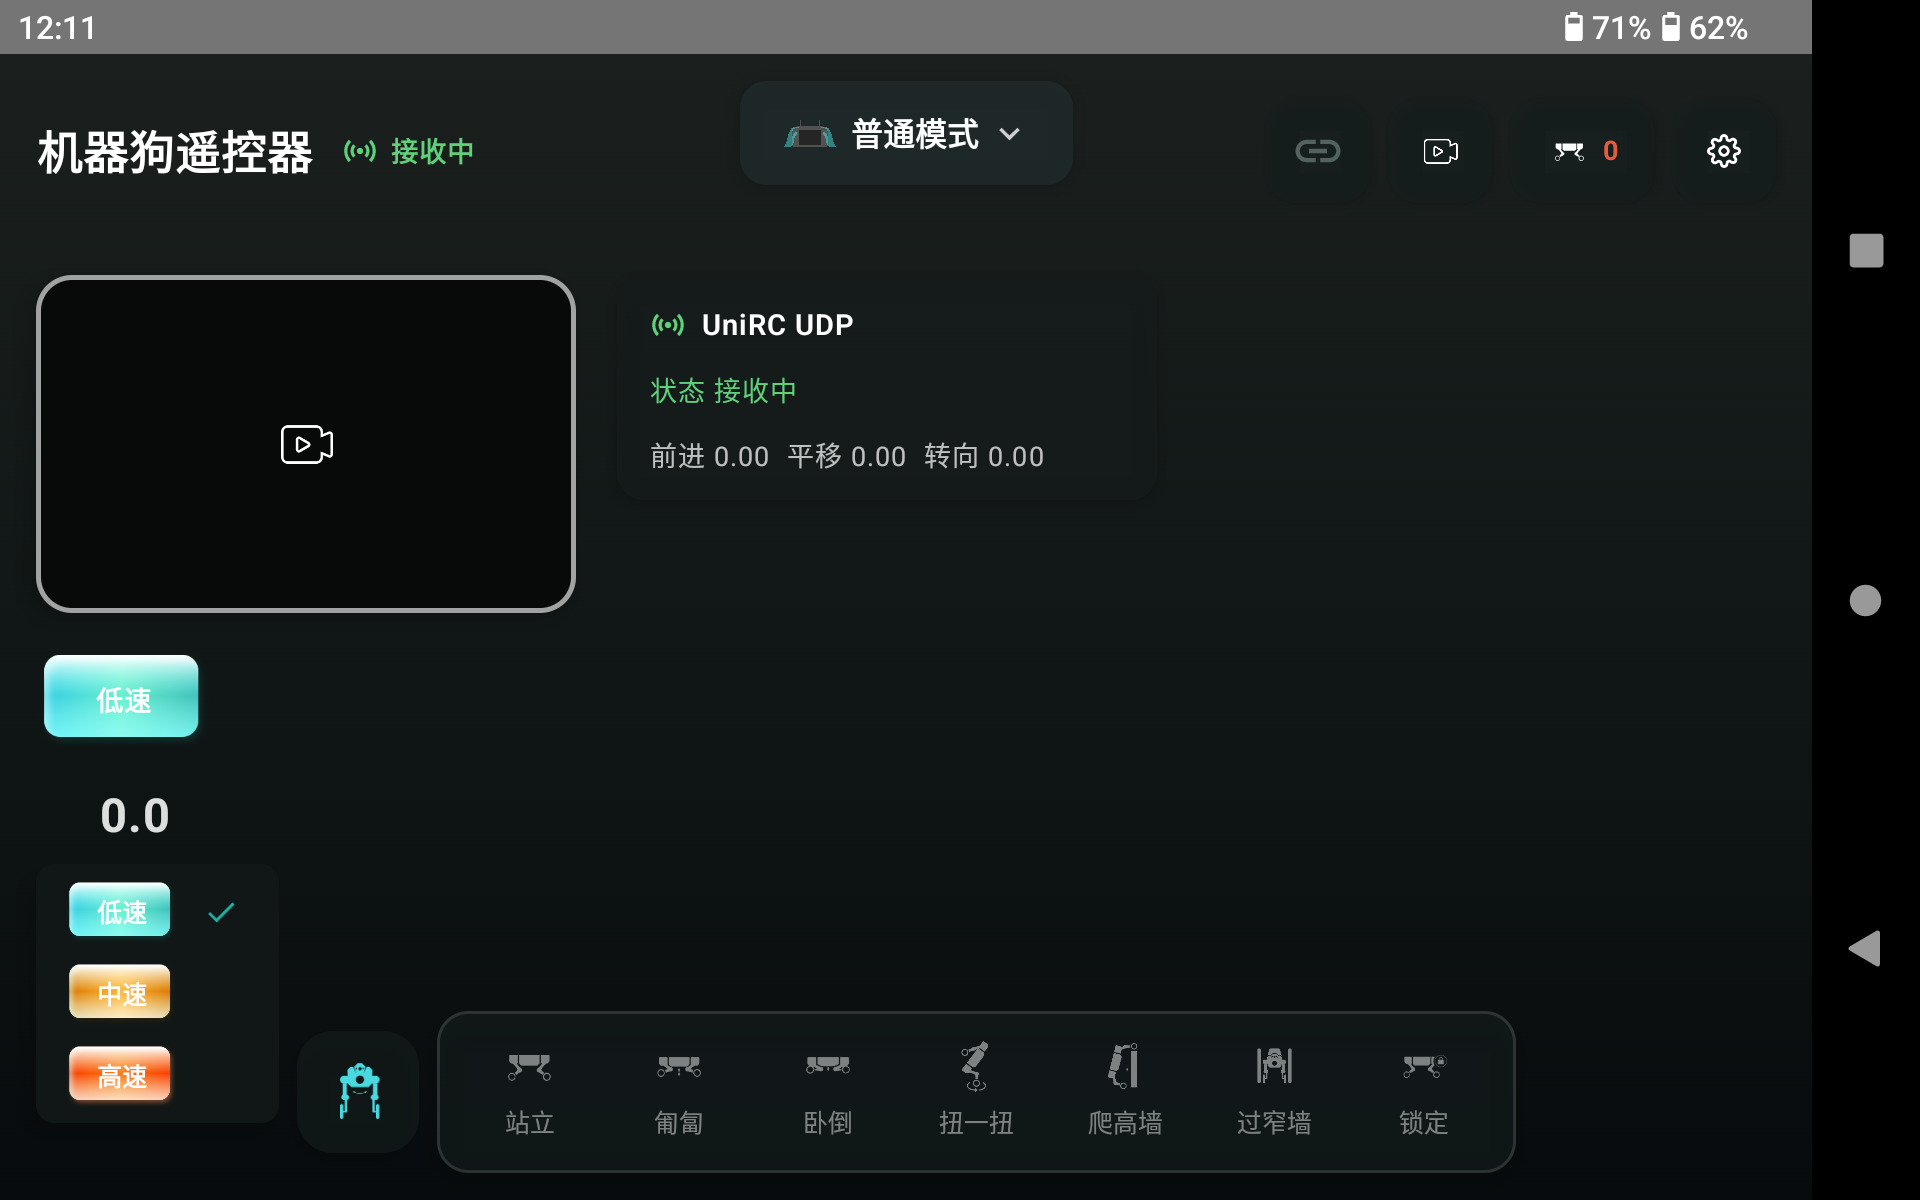
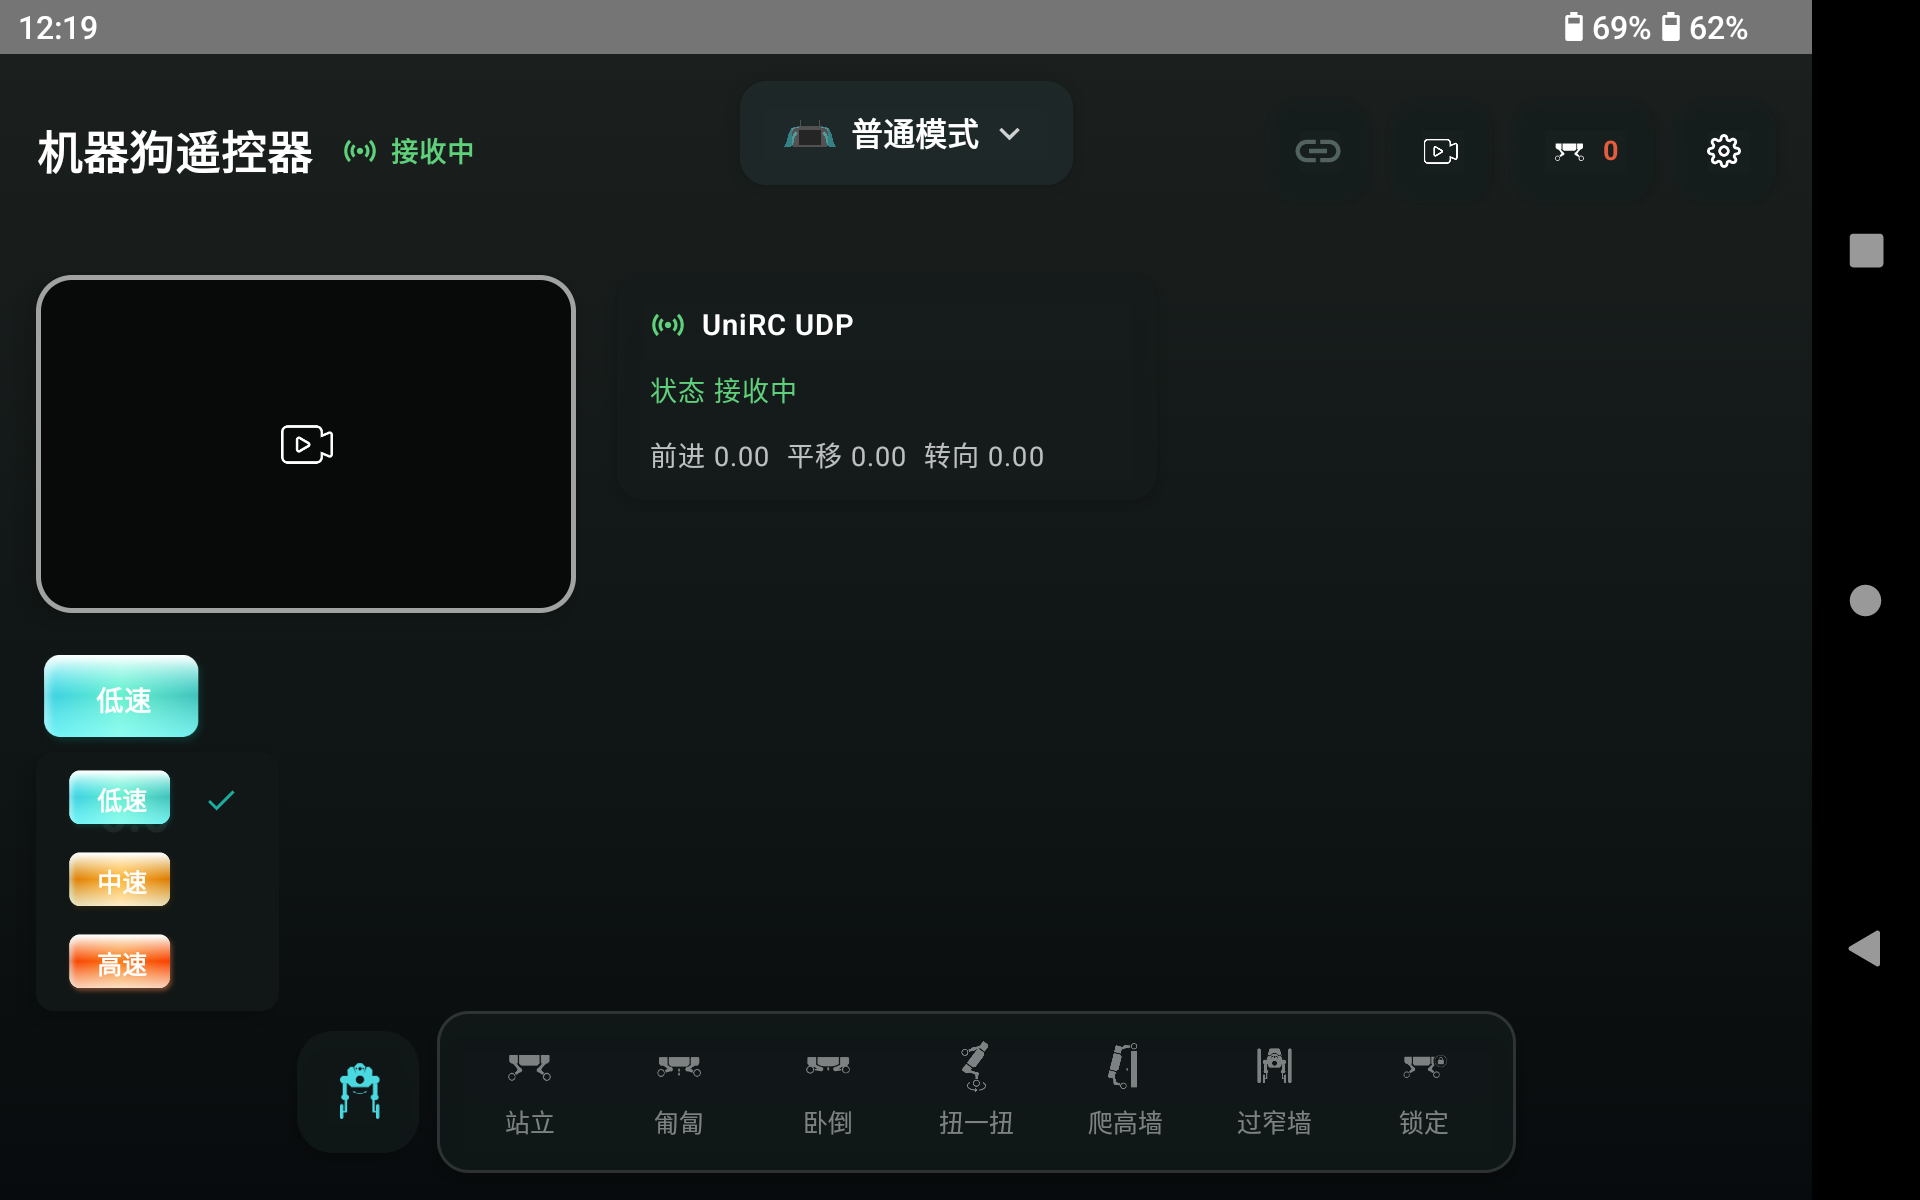
修正速度菜单贴合位置

Changed region(s): [[0.0312, 0.6167, 0.0938, 0.925], [0.8125, 0.0, 0.8438, 0.0308]]

diff --git a/app/src/main/java/com/helywin/leggedjoystick/ui/main/MainControlScreen.kt b/app/src/main/java/com/helywin/leggedjoystick/ui/main/MainControlScreen.kt
@@ -518,9 +518,9 @@ private fun VerticalSpeedSelector(
             Surface(
                 modifier = Modifier
                     .align(Alignment.TopStart)
-                    .offset(x = 0.dp, y = 96.dp)
+                    .offset(x = 0.dp, y = 46.dp)
                     .width(108.dp)
-                    .zIndex(1f),
+                    .zIndex(2f),
                 color = Color(0xEE111817),
                 shape = RoundedCornerShape(8.dp),
                 tonalElevation = 0.dp,
